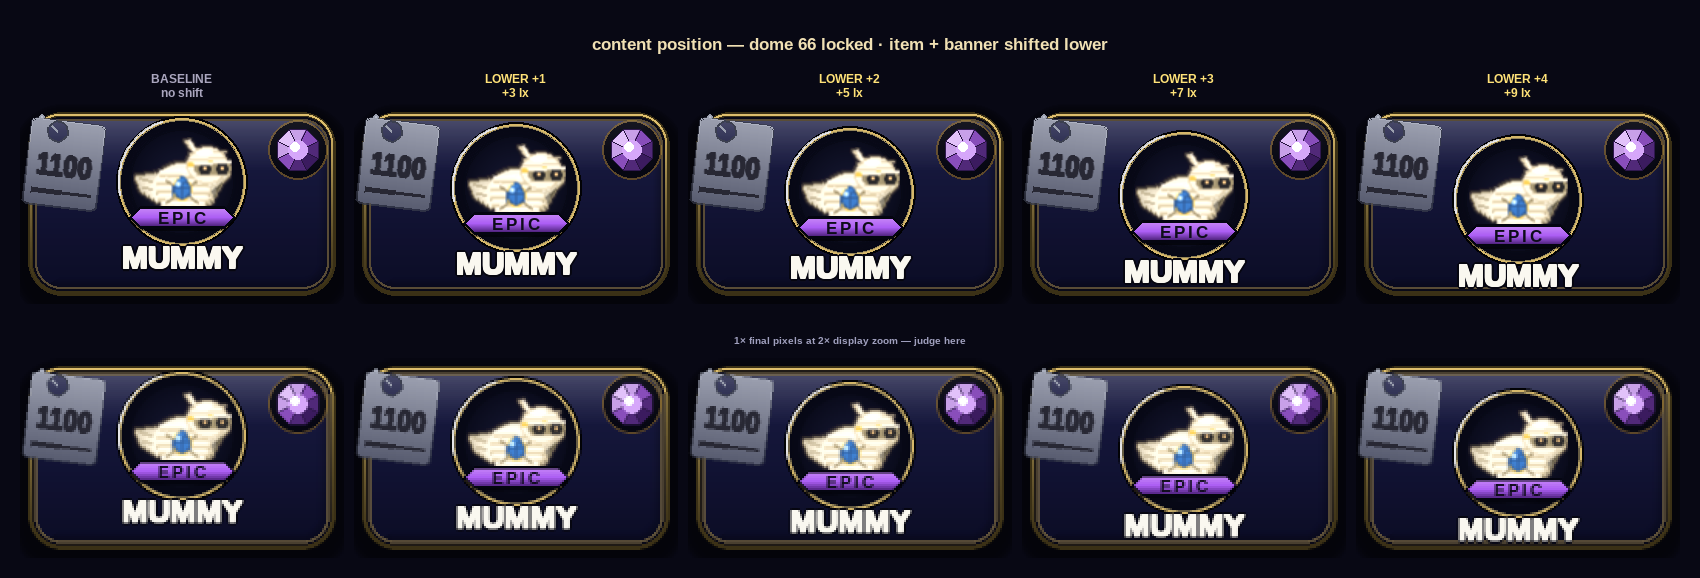
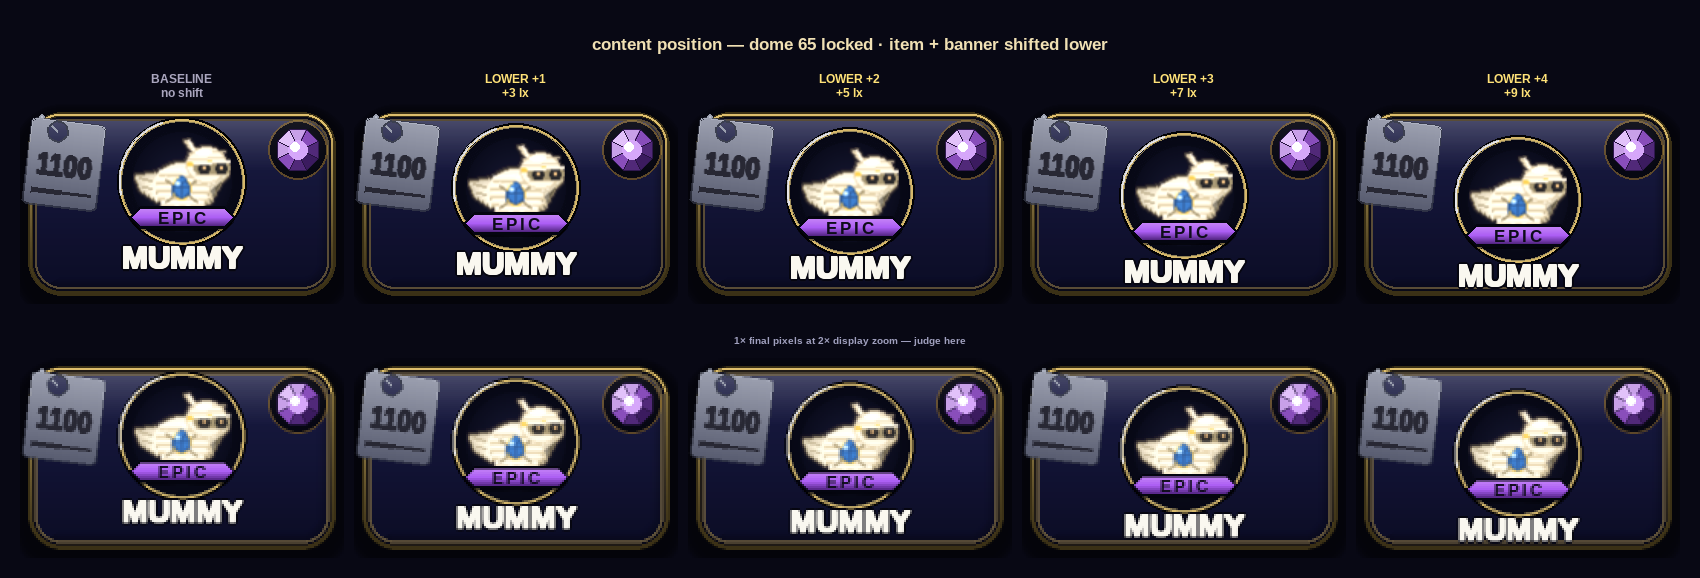
feat(store-card-size): update lower content comparison to dome 65
Claude-Session: https://claude.ai/code/session_01DaGYw11VdAubog2VGiiucC

diff --git a/tools/_store_card_lower_content.py b/tools/_store_card_lower_content.py
@@ -27,9 +27,9 @@ PANEL_W, PANEL_H = CARD_W * sc.SS, CARD_H * sc.SS
 
 # ── locked size values ────────────────────────────────────────────────────────
 LOCKED_INSET  = 4
-LOCKED_DOME_R = 66
-LOCKED_BOX_PX = 99   # round(66 * 1.5)
-LOCKED_RIM_W  = 2.52
+LOCKED_DOME_R = 65
+LOCKED_BOX_PX = 98   # round(65 * 1.5)
+LOCKED_RIM_W  = 2.5
 
 # ── shift steps (SS pixels, all even so m() is exact) ────────────────────────
 STEPS = [
@@ -119,7 +119,7 @@ fl = hud_font(12, True)
 fs = hud_font(10, False)
 
 title = fh.render(
-    "content position — dome 66 locked · item + banner shifted lower",
+    "content position — dome 65 locked · item + banner shifted lower",
     True, (240, 224, 180))
 sheet.blit(title, ((sheet_w - title.get_width()) // 2, PAD + (HDR_H - title.get_height()) // 2))
 
